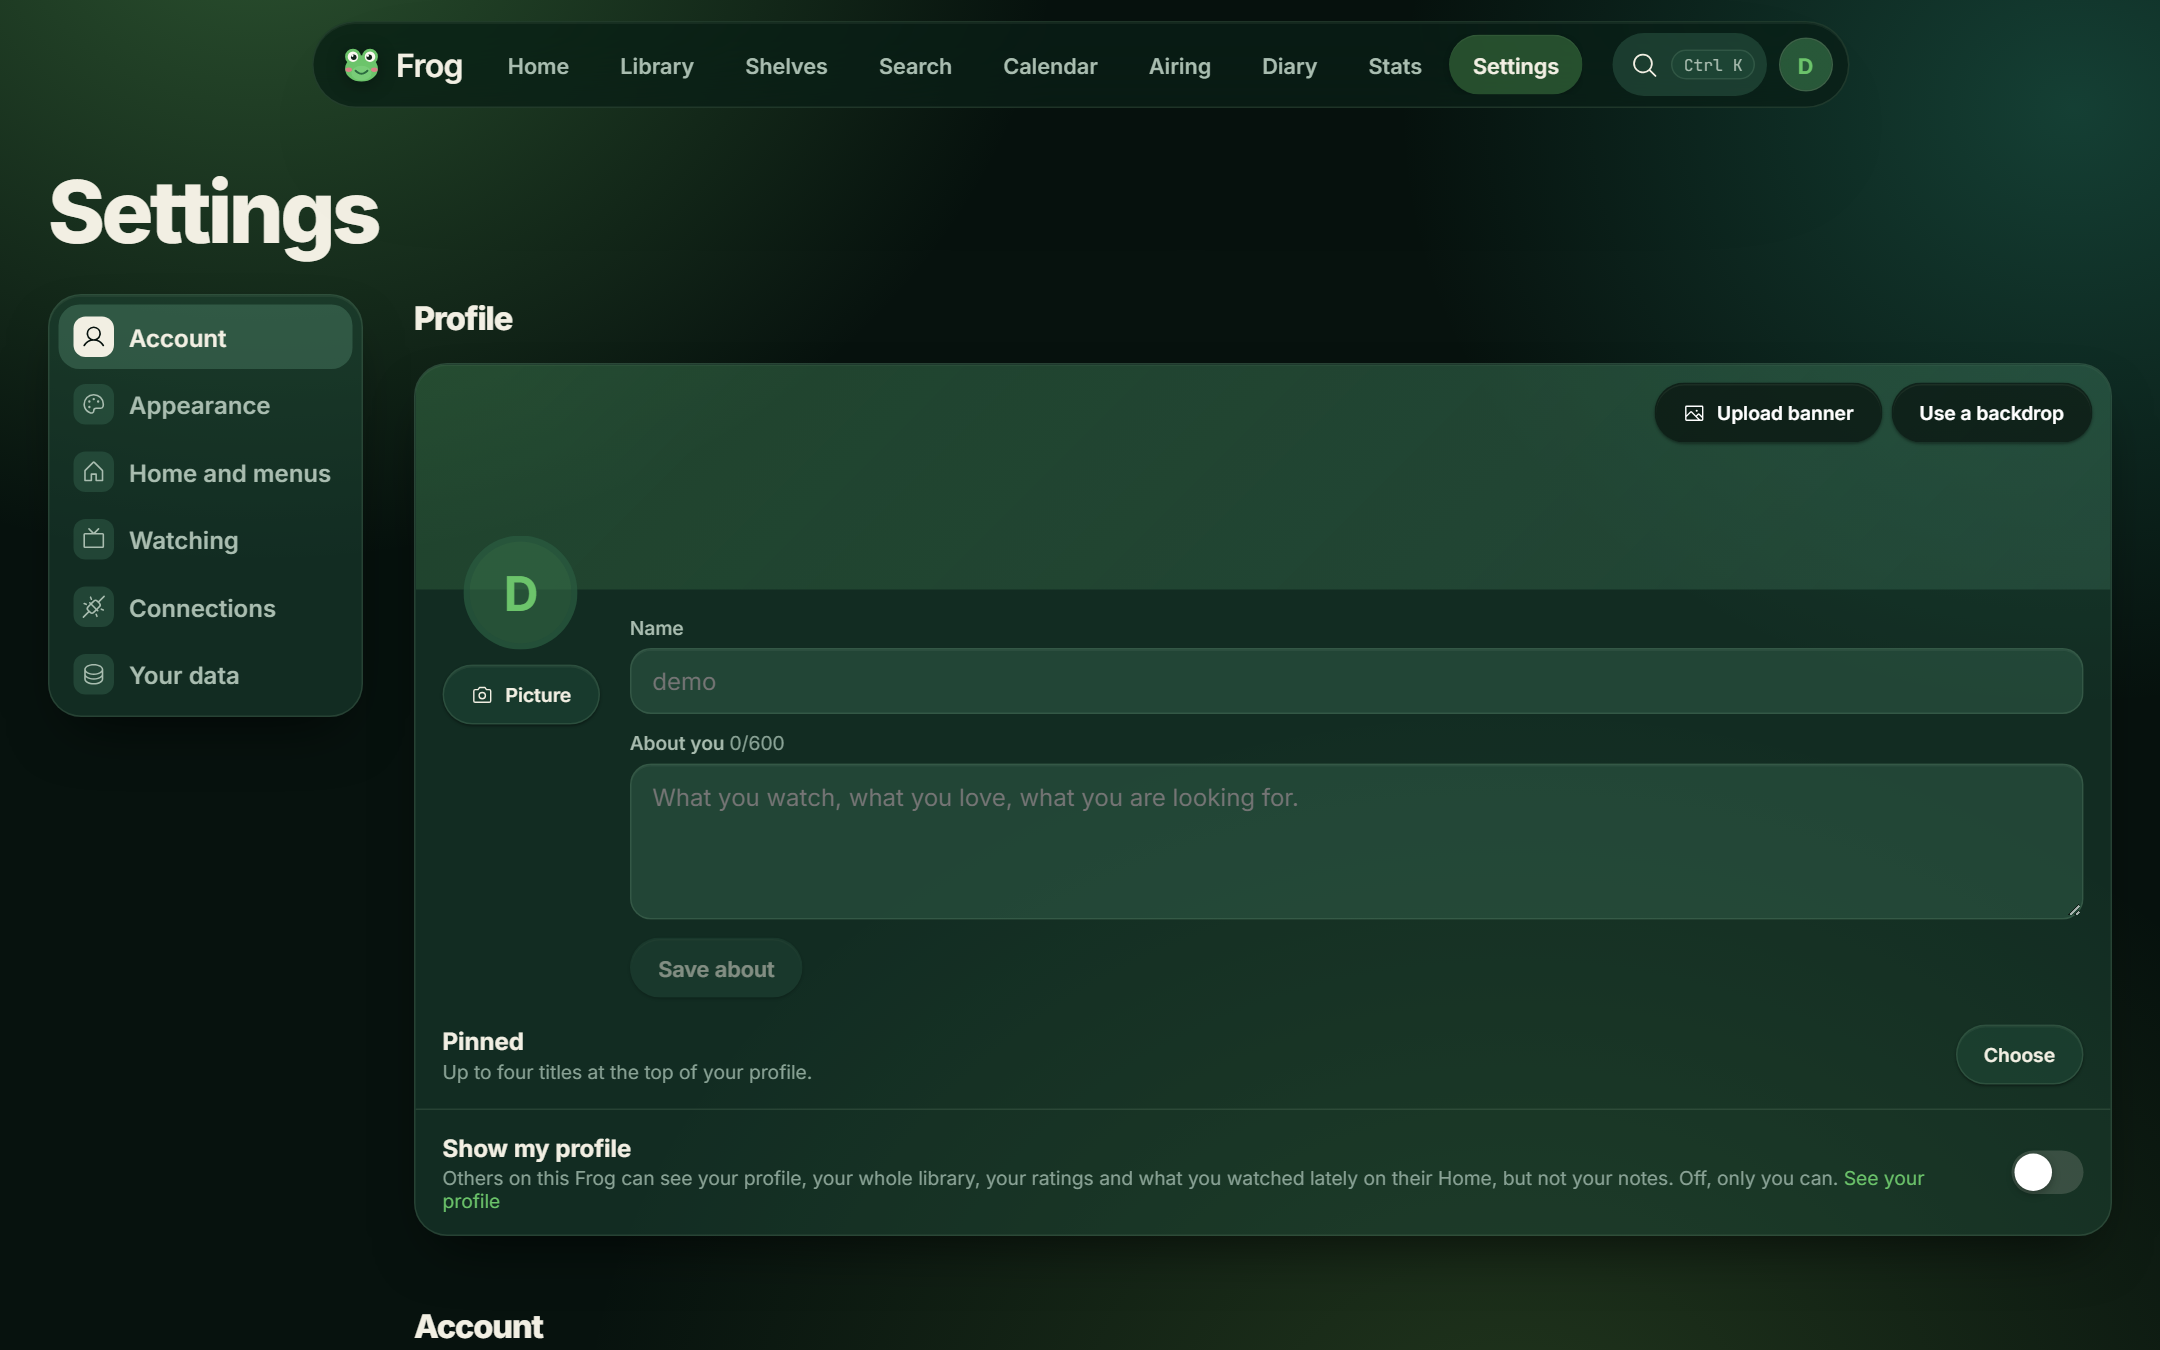
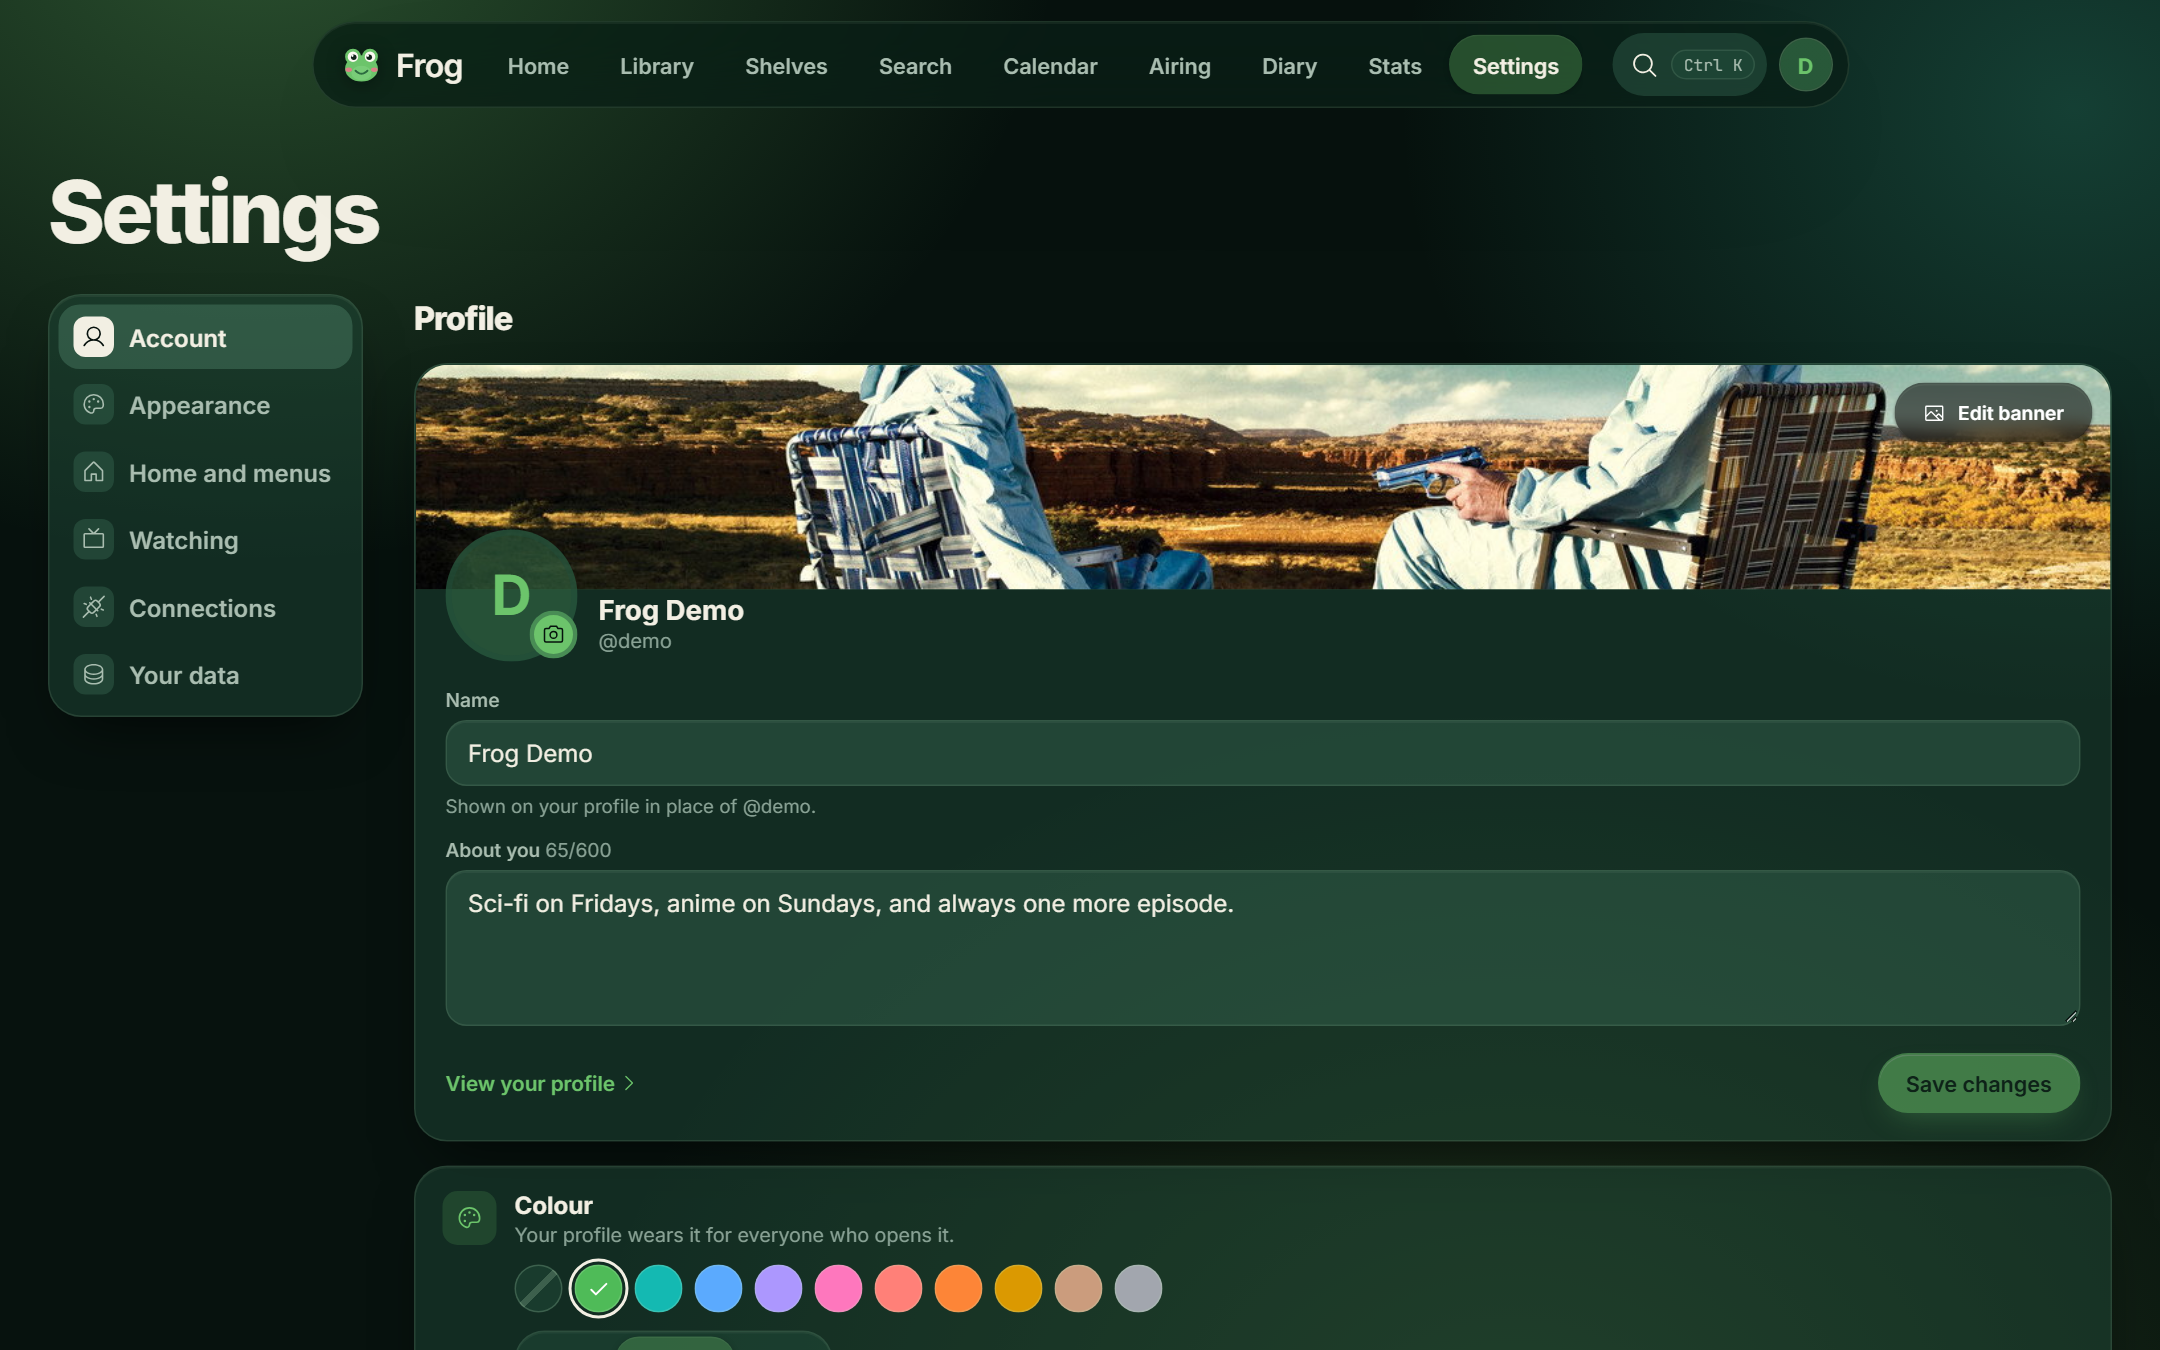
feat(release): 1.6.0 Tomato Frog, profiles of your own
Release 1.6.0 Tomato Frog. RELEASE-NOTES.md has its section written by
hand, so the release pull request keeps it as it is: badges and their
editor, a profile colour and banners that stand up as highlights; pins,
the profile settings and a simpler Appearance as improvements; the rating
and dropdown fixes. Upcoming starts again under Tomato Frog.

The About page and its test carry the codename. The README no longer
promises the colour editor, fonts, text size or animation, and gains a line
on profiles and badges. The screenshots are taken again, with a new one of
a profile (a colour, a vertical banner, pins and two badges), drawn by
scripts/demo-badge.mjs, which the demo seed now shares.

Changed region(s): [[0.1861, 0.2489, 0.9926, 0.8089], [0.1861, 0.7778, 0.9926, 1.0], [0.9306, 0.6844, 0.9616, 0.7467]]

diff --git a/frontend/e2e/smoke.spec.ts b/frontend/e2e/smoke.spec.ts
@@ -287,7 +287,7 @@ test('the about page credits its sources', async ({ page }) => {
 	await page.goto('/about');
 
 	await expect(page.getByRole('heading', { name: 'Frog', level: 1 })).toBeVisible();
-	await expect(page.getByText('Goliath')).toBeVisible();
+	await expect(page.getByText('Tomato Frog')).toBeVisible();
 	await expect(page.getByRole('link', { name: /TMDB/ }).first()).toBeVisible();
 	await expect(page.getByRole('link', { name: /Phosphor/ })).toBeVisible();
 });

diff --git a/frontend/src/routes/about/+page.svelte b/frontend/src/routes/about/+page.svelte
@@ -76,7 +76,7 @@
 		</button>
 		<div>
 			<h1>Frog</h1>
-			<p class="muted">Version {session.status?.version ?? '—'} · Goliath</p>
+			<p class="muted">Version {session.status?.version ?? '—'} · Tomato Frog</p>
 		</div>
 	</header>
 

diff --git a/README.md b/README.md
@@ -50,7 +50,7 @@ their own. It costs nothing at all.
 <tr>
 <td>
 <img src="docs/screenshots/settings-desktop-pond.png" alt="Settings, grouped, open on your profile">
-<p align="center"><b>Make it yours</b><br><sub>Your profile, themes, fonts, cards and rows — all live</sub></p>
+<p align="center"><b>Make it yours</b><br><sub>Your profile, themes, cards and rows — all live</sub></p>
 </td>
 <td>
 <img src="docs/screenshots/import-desktop-pond.png" alt="The import page offering Letterboxd, IMDb, Trakt, TV Time, MyAnimeList and Frog backups">
@@ -163,9 +163,12 @@ mouse.
 stars, or three smileys. Switch whenever you like: the number underneath never
 changes, so nothing is ever rounded away.
 
-**Make it look how you want.** Seven appearances plus a colour editor, six fonts,
-text size, how much animation, four card styles, poster size, what appears on a
-card, and which rows show on Home and in what order.
+**Make it look how you want.** Seven appearances, four card styles, poster size,
+what appears on a card, and which rows show on Home and in what order.
+
+**Make your profile yours.** A colour of its own, a banner across the top or
+standing beside everything, four pinned titles, and the badges your Frog's
+administrators hand out.
 
 **Keep spoilers out.** Blur the still for anything you have not watched yet.
 
@@ -250,7 +253,7 @@ on.
 <br>
 
 Only if you let them, and only people who already have an account on the same
-Frog. Turn on your profile and they can see your picture, your whole library
+Frog. Turn on your profile and they can see your picture, your badges, your whole library
 and ratings, your pinned titles and your totals, but not your notes. It starts switched off, and nothing is ever
 visible to anyone without an account.
 

diff --git a/RELEASE-NOTES.md b/RELEASE-NOTES.md
@@ -9,16 +9,26 @@ people working on Frog.
 This project follows [Keep a Changelog](https://keepachangelog.com/en/1.1.0/) and
 [semantic versioning](https://semver.org/spec/v2.0.0.html).
 
-## Upcoming — Goliath —
+## Upcoming — Tomato Frog —
 
 In progress.
 
-### New
+## [1.6.0] — Tomato Frog — 2026-11-13
+
+Profiles of your own: badges, a colour and a banner that stands up.
+
+![Your profile, with a banner standing beside it](docs/screenshots/profile-desktop-pond.png)
+
+### Highlights
 
 - **Badges.** Administrators make badges and give them to people. Up to three
   sit beside your name on your profile, and small ones on People. Tap one to
   see it large, with what it is for and the day it was given. In Settings, show
   or hide each one you hold and drag them into your order.
+- **A badge editor that does the fiddly part.** Crop to a circle, take the
+  background out with clean edges, touch up by hand with a steady brush, and
+  pick a fill and a ring. See it at every size, on a light page and a dark
+  one, before you save.
 - **Your colour.** Give your profile one of ten colours, in a light, medium or
   dark shade. Everyone who opens your profile sees it in your colour, on every
   theme.
@@ -991,6 +1001,7 @@ The first release.
 - Person pages that highlight what you have already seen.
 - Runs as a single container, or directly with one script.
 
+[1.6.0]: https://github.com/Frog-Movie-Tv/Frog/releases/tag/v1.6.0
 [1.5.1]: https://github.com/Frog-Movie-Tv/Frog/releases/tag/v1.5.1
 [1.5.0]: https://github.com/Frog-Movie-Tv/Frog/releases/tag/v1.5.0
 [1.4.3]: https://github.com/Frog-Movie-Tv/Frog/releases/tag/v1.4.3

diff --git a/ROADMAP.md b/ROADMAP.md
@@ -4,7 +4,7 @@ What is still to build, and what is known to be broken. Nothing else lives
 here: how things work is in [CLAUDE.md](CLAUDE.md), and what shipped is in
 [RELEASE-NOTES.md](RELEASE-NOTES.md). Take an item off when it ships.
 
-**Release:** 1.5.0 Goliath. **Next codename:** Tomato Frog. **Live at** a DuckDNS hostname on Oracle Cloud Always
+**Release:** 1.6.0 Tomato Frog. **Next codename:** not chosen yet. **Live at** a DuckDNS hostname on Oracle Cloud Always
 Free, updating itself from each release (`docs/DEPLOY-ORACLE.md`).
 
 ## To build
